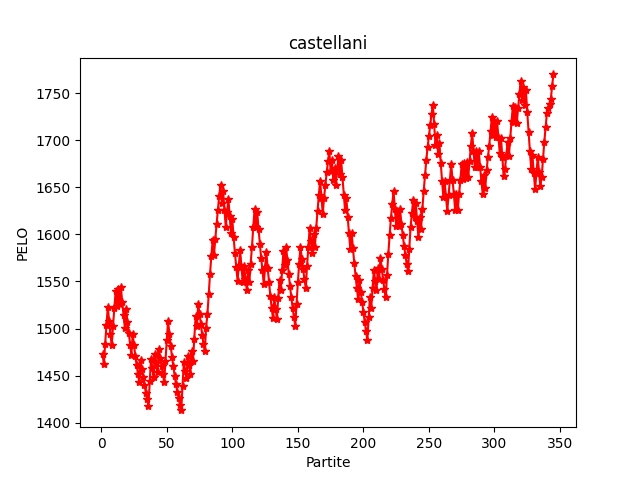
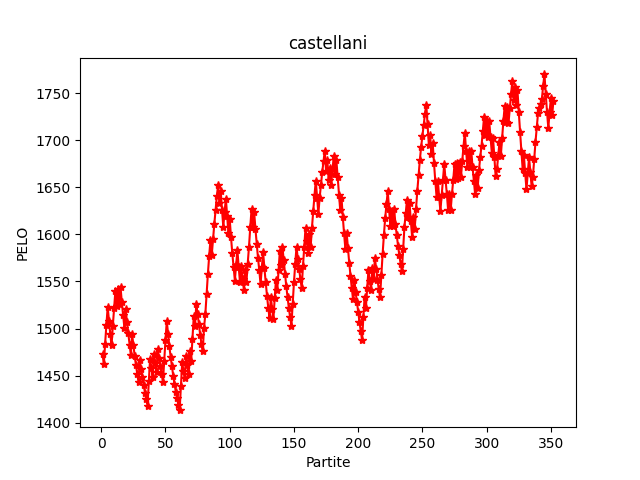
Add files via upload

diff --git a/index.htm b/index.htm
@@ -18,20 +18,20 @@
     <tr>
       <th>0</th>
       <td><a href='castellani.png'>castellani</a></td>
-      <td>1770</td>
-      <td>506</td>
-      <td>234</td>
-      <td>4809</td>
-      <td>5021</td>
+      <td>1742</td>
+      <td>513</td>
+      <td>237</td>
+      <td>4878</td>
+      <td>5088</td>
     </tr>
     <tr>
       <th>1</th>
       <td><a href='zontini.png'>zontini</a></td>
-      <td>1655</td>
-      <td>285</td>
-      <td>149</td>
-      <td>2844</td>
-      <td>2789</td>
+      <td>1690</td>
+      <td>292</td>
+      <td>153</td>
+      <td>2911</td>
+      <td>2858</td>
     </tr>
     <tr>
       <th>2</th>
